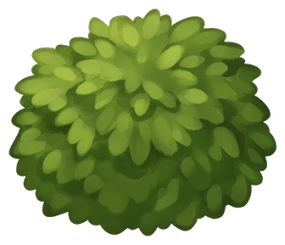
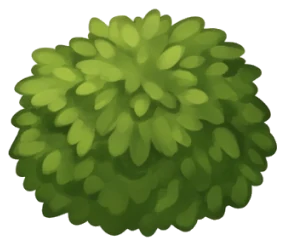
v86: reworked bush-1 and poplars

diff --git a/index.html b/index.html
@@ -218,7 +218,7 @@ body.overview .hud, body.overview .stick-zone, body.overview .guide, body.overvi
 <script>
 // ===================== Общие настройки =====================
 const DPR = Math.min(window.devicePixelRatio || 1, 3);
-const GAME_VERSION = 85;   // совпадает с номером в sw.js (farm-vN); видно в окне «Заново»
+const GAME_VERSION = 86;   // совпадает с номером в sw.js (farm-vN); видно в окне «Заново»
 // Слои земли (трава, дорожки, поля, тени) — глубже любых персонажей и деревьев, даже с отрицательной y
 const GROUND = -5000;
 // Карта: y от −1000 до 2000. Верх (y < 0) — поле с пшеницей, низ (y > 1000) — пастбище Нанамина

diff --git a/sw.js b/sw.js
@@ -4,7 +4,7 @@
 //  • картинки и движок — сразу из сохранённой копии (без похода в сеть при каждом запуске).
 //    Когда выходит новая версия (меняется CACHE), новый service worker при установке
 //    обновляет все файлы — неизменённые браузер не скачивает заново (сверяет и получает «не изменился»).
-const CACHE = 'farm-v85';
+const CACHE = 'farm-v86';
 const CORE = [
   './',
   './index.html',
